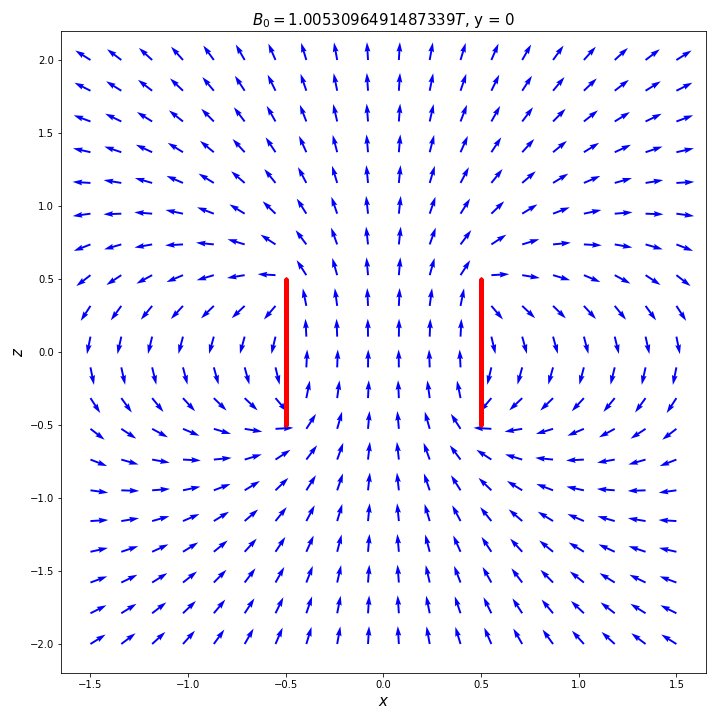
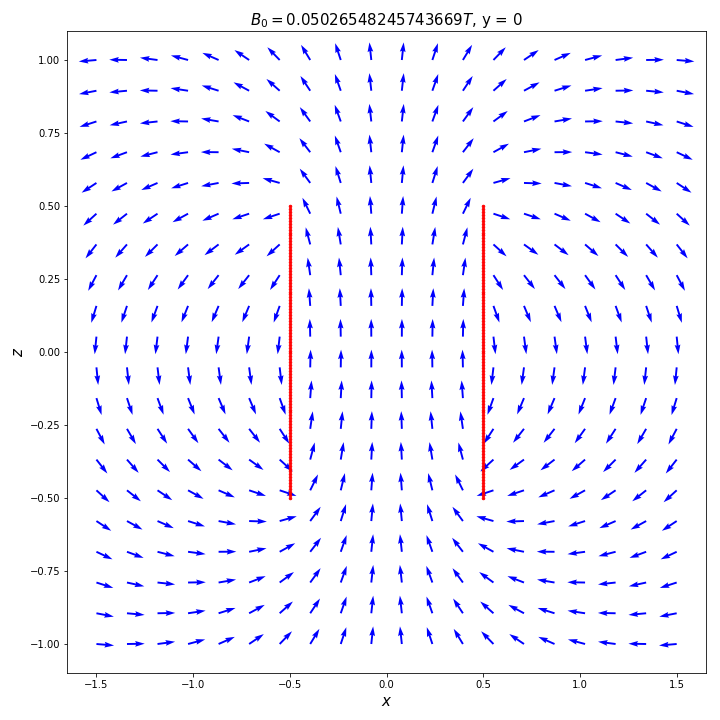
display3D

diff --git a/Solenoid.py b/Solenoid.py
@@ -158,23 +158,52 @@ class Solenoid:
         
         return fig
     
-    def displayField3D(self,figsize=(10,10)):
+    def displayField3D(self,figsize=(10,10),nb_points=8,colorTile="red",colorArrow="blue",linewidth=3):
         """
         To display the field in 3D
         * Arguments
-            -
+            - figsize: (float,float)
+                to determine the size of the figure
+            - nb_points: int
+                number of points of evaluation on each axis
+            - colorTile: string
+                color of the tiles
+            - colorArrow: string
+                color of the arrows
+            - linewidth: float
+                thickness of the tile
+                
         * Returns
-            -
+            - fig: matplotlib.pyplot.figure
+                the figure
+        * Example
+            sol = Solenoid(n = 100)
+            fig = sol.displayField3D()
+            fig.savefig("sol_3D.png")
         """
-        title = r"$B_0 = "+str(self.B0)+"T, x_0 = "+str(self.x0)+", y_0 = "+str(self.y0)+", z_0 = "+str(self.z0)+", r_0 = $"+str(self.r0)+", N = "+str(self.N)+", L = "+str(self.L)
-
+        x, y, z = np.meshgrid(np.linspace(-3*self.r0+self.x0, 3*self.r0+self.x0, nb_points),
+                              np.linspace(-3*self.r0+self.y0, 3*self.r0+self.y0, nb_points)
+                              np.linspace(self.z0-self.L,self.z0+self.L, nb_points))
+        x = np.concatenate(np.concatenate(x))
+        y = np.concatenate(np.concatenate(y))
+        z = np.concatenate(np.concatenate(z))
+        Bx, By, Bz = self.field(x,y,z)
+        
+        t = np.linspace(0,2*np.pi,100)
+        xs = self.x0 + self.r0*np.cos(t)
+        ys = self.y0 + self.r0*np.sin(t)
+        zs = self.z0*np.ones(len(t))
+        
+        title = r"$B_0 = "+str(self.B0)+"T, x_0 = "+str(self.x0)+", y_0 = "+str(self.y0)+", z_0 = "+str(self.z0)+", r_0 = $"+str(self.r0)
+        
         fig = plt.figure(figsize=figsize)
         ax = fig.gca(projection='3d')
         ax.set_xlabel(r"x",fontsize=15)
         ax.set_ylabel(r"y",fontsize=15)
         ax.set_zlabel(r"z",fontsize=15)
         ax.set_title(title,fontsize=15)
-        return fig
+        ax.quiver(x, y, z, Bx, By, Bz, length=self.r0*0.2, normalize=True, color = colorArrow)
+        ax.plot(xs,ys,zs,color=colorTile,linewidth=linewidth)
 
     def displayField2D(self,eq_0="y",figsize=(10,10),nb_points=20,color="blue",markTile=True):
         """
@@ -208,7 +237,7 @@ class Solenoid:
             xlabel = r"$y$"
             ylabel = r"$z$"
             title = r"x = "+str(self.x0)
-            x1, x2 = np.meshgrid(np.linspace(-3*self.r0+self.y0, 3*self.r0+self.y0, nb_points),np.linspace(self.z0-2*self.L,self.z0+2*self.L, nb_points))
+            x1, x2 = np.meshgrid(np.linspace(-3*self.r0+self.y0, 3*self.r0+self.y0, nb_points),np.linspace(self.z0-self.L,self.z0+self.L, nb_points))
             x3 = np.zeros_like(x1)+self.x0
             Bx3, Bx1, Bx2 = self.field(x3, x1, x2)
             
@@ -216,7 +245,7 @@ class Solenoid:
             xlabel = r"$x$"
             ylabel = r"$z$"
             title = r"y = "+str(self.y0)
-            x1, x2 = np.meshgrid(np.linspace(-3*self.r0+self.x0, 3*self.r0+self.x0, nb_points),np.linspace(self.z0-2*self.L,self.z0+2*self.L, nb_points))
+            x1, x2 = np.meshgrid(np.linspace(-3*self.r0+self.x0, 3*self.r0+self.x0, nb_points),np.linspace(self.z0-self.L,self.z0+self.L, nb_points))
             x3 = np.zeros_like(x1)+self.y0
             Bx1, Bx3, Bx2 = self.field(x1, x3, x2)
         else:
@@ -233,8 +262,6 @@ class Solenoid:
                     dotx1 = np.array([-tile.r0,tile.r0])+tile.x0
                     dotx2 = [tile.z0,tile.z0]
                 plt.plot(dotx1,dotx2,'.',ms=5,color="red")
-                
-                    
             
         no = np.sqrt(Bx1**2+Bx2**2+Bx3**2)
         Bx1 = Bx1/no

diff --git a/main.py b/main.py
@@ -50,7 +50,7 @@ fig = sol.displaySolenoid()
 fig.savefig("sol.png")
 
 # display the field created by a solenoid in 2D
-sol = Solenoid()
+sol = Solenoid(n=100)
 fig = sol.displayField2D()
 fig.savefig("sol_2D.png")
 

diff --git a/README.md b/README.md
@@ -200,6 +200,29 @@ fig.savefig("sol.png")
 ![solenoid display](sol.png "solenoid display")
 
 ### Solenoid.displayField3D
+To display the field in 3D
+* Arguments
+    - figsize: (float,float)
+        to determine the size of the figure
+    - nb_points: int
+        number of points of evaluation on each axis
+    - colorTile: string
+        color of the tiles
+    - colorArrow: string
+        color of the arrows
+    - linewidth: float
+        thickness of the tile
+        
+* Returns
+    - fig: matplotlib.pyplot.figure
+        the figure
+* Example
+
+```python
+    sol = Solenoid(n = 100)
+    fig = sol.displayField3D()
+    fig.savefig("sol_3D.png")
+```
 ![field in 3D](sol_3D.png "field in 3D")
 
 ### Solenoid.displayField2D
